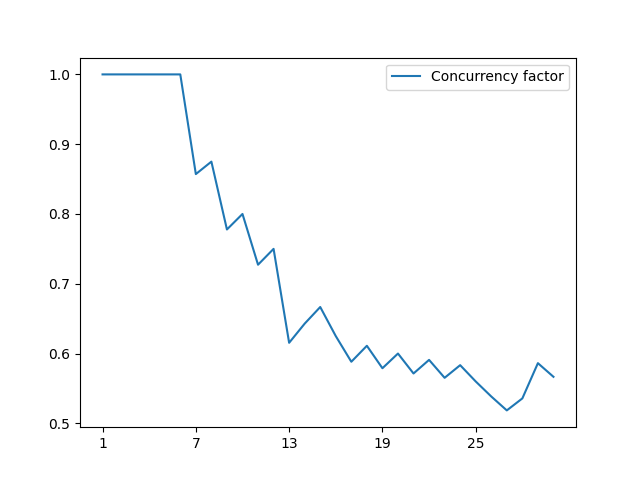
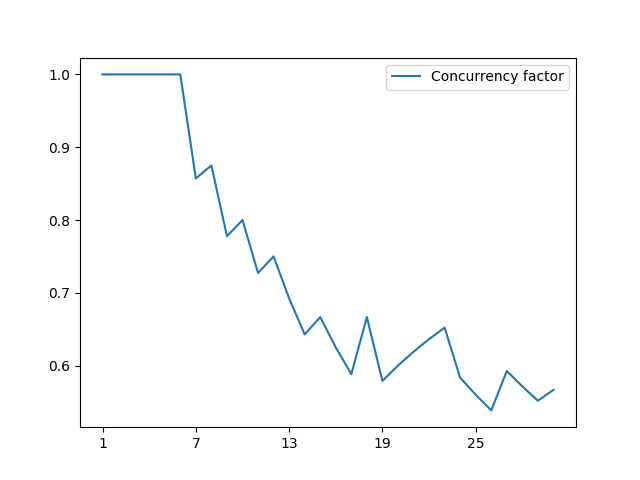
upd simulation

diff --git a/packages/simulation/simulation/simulator.py b/packages/simulation/simulation/simulator.py
@@ -35,7 +35,9 @@ class Simulator:
         self.days = days
         self.interval_minutes = interval_minutes
 
-        self.chargepoints = [Chargepoint(power_per_chargepoint_kw) for _ in range(num_chargepoints)]
+        self.chargepoints = [
+            Chargepoint(power_per_chargepoint_kw) for _ in range(num_chargepoints)
+        ]
         self.power_history: List[float] = []
         self.total_energy = 0.0
 
@@ -54,10 +56,13 @@ class Simulator:
             hour = ((interval_idx * self.interval_minutes) // 60) % 24
 
             # Perform charging step for all chargepoints
-            interval_energy = 0.0
+            interval_energy = self._charge_step()
+            # self._arrival_step(hour) # according to the description, that is not the case
+            self._arrival_each_chargepoint_step(
+                hour
+            )  # models arrival for each chargepoint independently
             power_demand = 0
             for chargepoint in self.chargepoints:
-                interval_energy += self._charge_step(chargepoint, hour, self.interval_minutes)
                 if chargepoint.is_charging():
                     power_demand += chargepoint.power_kw
 
@@ -74,30 +79,55 @@ class Simulator:
             "power_history": self.power_history,
         }
 
-    def _charge_step(
-        self, chargepoint: Chargepoint, hour: int, interval_minutes: int = 15
-    ) -> float:
+    def _charge_step(self) -> float:
         """
-        Perform one charging step for a given chargepoint.
-
-        Args:
-            chargepoint: Chargepoint to charge
-            hour: Hour of the day (0-23)
-            interval_minutes: Duration of the charging interval in minutes (15 minutes by default)
+        Perform one charging step for all chargepoints.
 
         Returns:
-            Energy delivered in kWh
+            Energy delivered in kWh for all chargepoints in the interval
         """
-        vehicle: Vehicle | None = chargepoint.vehicle
-        if vehicle is None:
-            if sample_arrival(hour):
-                energy_needed = sample_charging_energy(self.consumption_kwh_per_100km)
-                if energy_needed > 0:
-                    chargepoint.vehicle = Vehicle(energy_needed)
-            return 0
-        energy_delivered = vehicle.charge(chargepoint.power_kw * (interval_minutes / 60))
+        energy_delivered = 0.0
+        interval_minutes = self.interval_minutes
+        for chargepoint in self.chargepoints:
+            vehicle: Vehicle | None = chargepoint.vehicle
+            if vehicle is None:
+                continue
+            energy_delivered += vehicle.charge(
+                chargepoint.power_kw * (interval_minutes / 60)
+            )
 
-        if not vehicle.is_charging():
-            chargepoint.vehicle = None
+            if not vehicle.is_charging():
+                chargepoint.vehicle = None
 
         return energy_delivered
+
+    def _arrival_step(self, hour: int) -> float:
+        """
+        Perform one arrival step for all chargepoints.
+        """
+        if not sample_arrival(hour):
+            return
+
+        energy_needed = sample_charging_energy(self.consumption_kwh_per_100km)
+
+        if energy_needed == 0:
+            return
+
+        chargepoint = next((c for c in self.chargepoints if c.vehicle is None), None)
+
+        if chargepoint is None:
+            return
+        chargepoint.vehicle = Vehicle(energy_needed)
+
+    def _arrival_each_chargepoint_step(self, hour: int) -> float:
+        """
+        Perform one arrival step for each chargepoint.
+        """
+        for chargepoint in self.chargepoints:
+            if chargepoint.vehicle is None:
+                if sample_arrival(hour):
+                    energy_needed = sample_charging_energy(
+                        self.consumption_kwh_per_100km
+                    )
+                    if energy_needed > 0:
+                        chargepoint.vehicle = Vehicle(energy_needed)

diff --git a/packages/simulation/concurency_factor.py b/packages/simulation/concurency_factor.py
@@ -1,3 +1,4 @@
+from pathlib import Path
 import matplotlib.pyplot as plt
 import numpy as np
 from simulation.simulator import Simulator
@@ -29,10 +30,20 @@ def main(seed=None):
         max_theoretical_powers.append(results["max_theoretical_power_kw"])
         max_powers.append(results["max_power_kw"])
 
-    plt.plot(range(1, max_num_chargepoints + 1), concurrency_factors, label="Concurrency factor")
+    plt.plot(
+        range(1, max_num_chargepoints + 1),
+        concurrency_factors,
+        label="Concurrency factor",
+    )
     plt.legend()
     plt.xticks(range(1, max_num_chargepoints + 1, max_num_chargepoints // 5))
-    plt.savefig(f"output/concurency_factor_{seed if seed is not None else 'random'}.png")
+    path = (
+        Path(__file__).parent
+        / "output"
+        / f"concurency_factor_{seed if seed is not None else 'random'}.png"
+    )
+    path.parent.mkdir(parents=True, exist_ok=True)
+    plt.savefig(path)
     plt.close()
 
 

diff --git a/packages/simulation/main.py b/packages/simulation/main.py
@@ -67,7 +67,9 @@ def main():
     print(f"  Concurrency factor: {results['concurrency_factor']:.2f}")
 
     plt.hist(results["power_history"], bins=24)
-    plt.savefig("output/power_history.png")
+    path = Path(__file__).parent / "output" / "power_history.png"
+    path.parent.mkdir(parents=True, exist_ok=True)
+    plt.savefig(path)
     plt.close()
 
 
